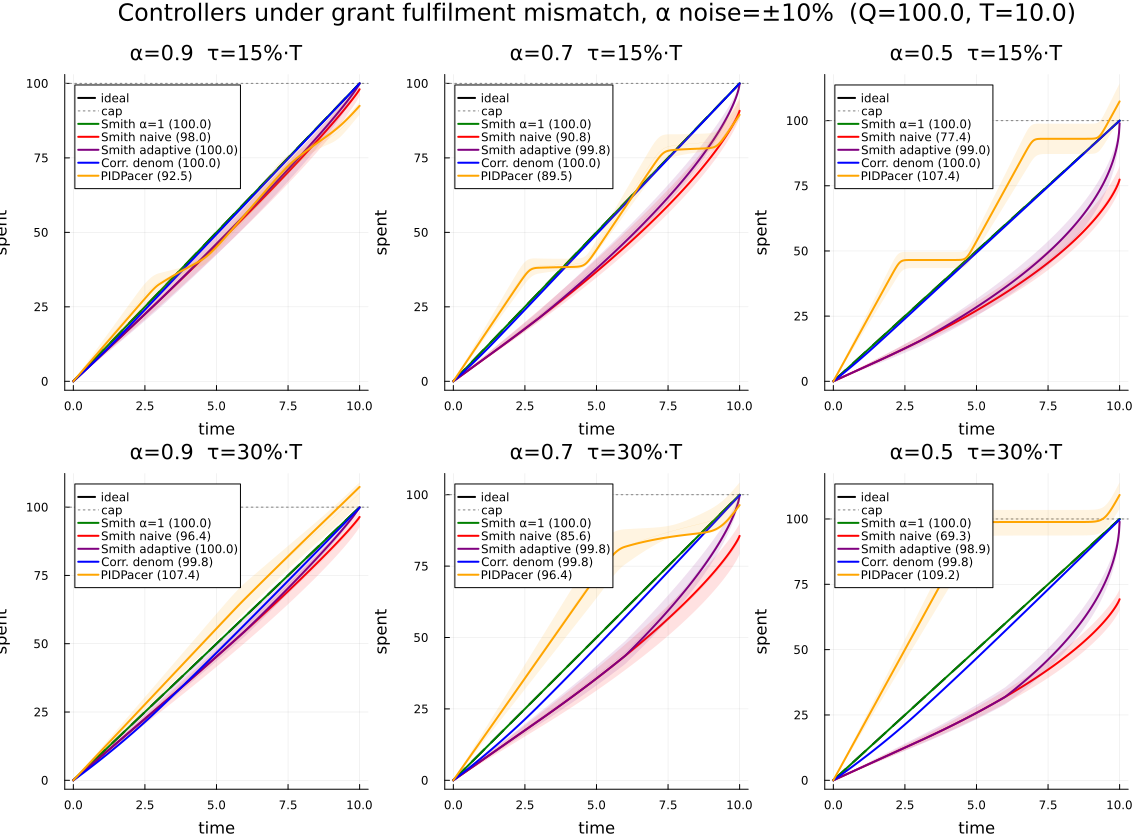
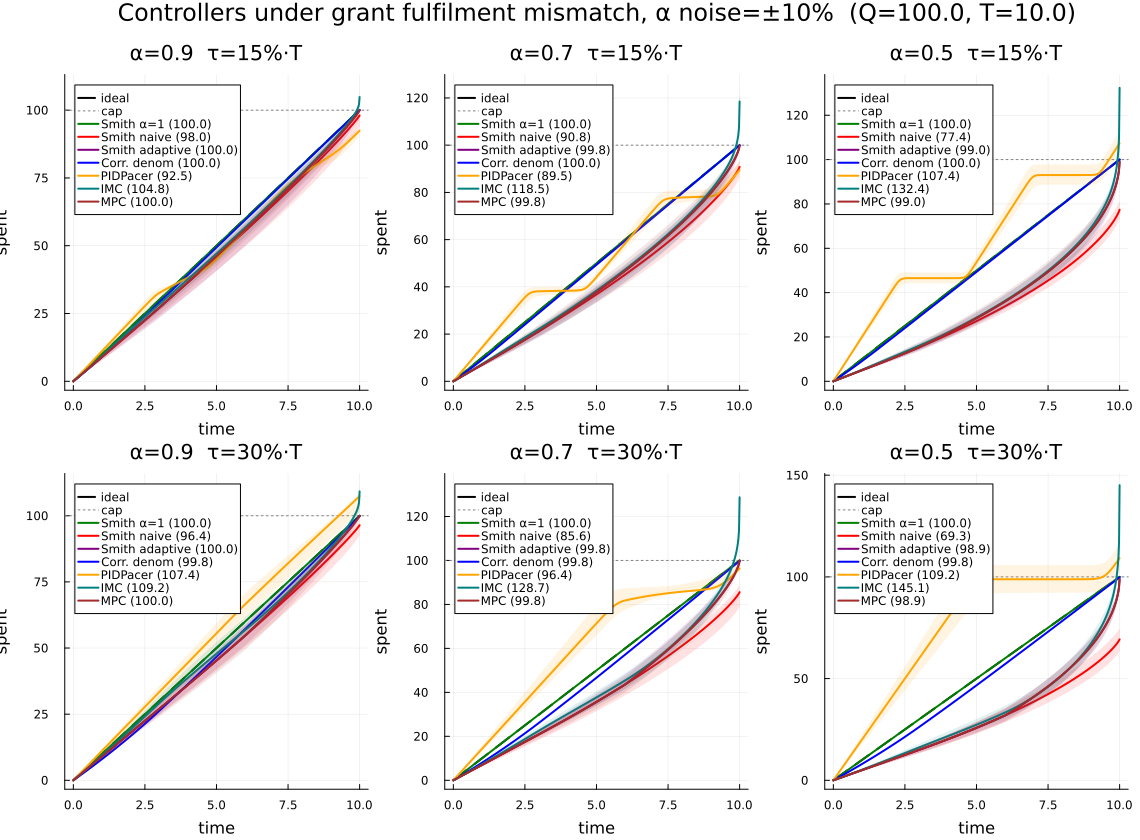
Add IMC and MPC controllers with full documentation
IMC (src/imc.jl): Smith predictor + robustness filter on correction term.
Smooths noisy alpha-hat; trades correction speed for grant-rate smoothness.
At lambda=0 reduces to adaptive Smith; larger lambda adds smoothing at cost
of overspend at low alpha.

MPC (src/mpc.jl): constrained one-step optimisation. Uses adaptive Smith
estimate but caps rate at safe naive level (B(t-tau)/(T-t)) to prevent
overspend when alpha-hat is imperfect. Achieves ~100% across all alpha and
tau values without ever overshooting -- best overall controller.

Both added to demo_smith_mismatch as teal (IMC) and brown (MPC) curves.
RESULTS_BUDGET.md updated with architecture, tradeoffs, and full ranking
table for all seven controllers.

diff --git a/RESULTS_BUDGET.md b/RESULTS_BUDGET.md
@@ -298,42 +298,76 @@ Grid: rows = τ (15%·T and 30%·T), columns = α (0.9, 0.7, 0.5).  Each panel
 shows a deterministic curve at nominal α plus a shaded ±1σ ribbon from 30
 Monte Carlo trials with α ~ Normal(α, 0.1α) clipped to (0, 1]:
 
-- **Smith α=1** (green): perfect model, spends exactly 100%; narrow ribbon
-  because α noise has no effect when the model is correct.
-- **Smith naive** (red): mismatch — under-spends proportionally to (1−α);
-  wide ribbon because the final spend tracks α directly, and α noise maps
-  linearly to output noise.
-- **Smith adaptive** (purple): estimates α̂ and compensates; near-100% even
-  at α = 0.5; ribbon is moderate — the α̂ estimator absorbs most of the
-  noise but a one-window lag remains.
-- **Corrected denom** (blue): unaffected by α — near-100% at τ=15%·T;
-  narrow ribbon because it makes no model assumption.
-- **PIDPacer** (orange): immune to α via rate-based error; ribbon is tight
-  — the sigmoid bounds the output regardless of α fluctuations.
+- **Smith α=1** (green): perfect model, spends exactly 100%.
+- **Smith naive** (red): under-spends proportionally to (1−α); wide ribbon.
+- **Smith adaptive** (purple): near-100% across all α; moderate ribbon.
+- **Corrected denom** (blue): near-100% at τ=15%·T; narrow ribbon; degrades at τ=30%·T.
+- **PIDPacer** (orange): immune to α; baseline deficit persists; tight ribbon.
+- **IMC** (teal): overshoots at low α due to filter lag; ribbon is wide at low α.
+- **MPC** (brown): ~100% across all α and τ; narrowest ribbon — constrained rate
+  prevents both over- and under-spend regardless of α̂ accuracy.
+
+#### IMC (Internal Model Control)
+
+IMC is a generalisation of the Smith predictor that adds a **robustness
+filter** on the correction term.  The standard Smith computes:
+
+    correction(t) = α̂(t) · (S(t) - S(t-τ))     [instantaneous]
+
+IMC instead applies a first-order low-pass filter to this correction:
+
+    τ_f · d(corr_f)/dt = correction(t) - corr_f(t),   τ_f = λ·T
+    B̂_imc(t) = B(t-τ) - corr_f(t)
+
+The filter smooths out noise in α̂ and sudden changes in α, at the cost
+of a slower response to mismatch.  When λ → 0 (no filter), IMC reduces
+to adaptive Smith.  Larger λ gives more smoothing but more overspend at
+low α (since the correction lags the true mismatch).
+
+#### MPC (Model Predictive Control)
+
+MPC solves a one-step constrained optimisation at each instant:
+
+  - **Estimate** B̂ via the adaptive Smith formula.
+  - **Constrain** the rate to never exceed the naive (safe) rate B(t-τ)/(T-t).
+  - **Optimal rate**: min(B̂/(T-t), B(t-τ)/(T-t)).
+
+The constraint prevents overspend when α̂ is incorrect or when the
+adaptive estimate overshoots.  When B̂ ≤ B(t-τ) (underspending detected),
+MPC uses the full adaptive rate; when B̂ > B(t-τ) (model thinks budget is
+higher than observed), MPC falls back to the conservative naive rate.
+
+This is genuinely MPC: it minimises ‖B(T)‖² subject to B(t) ≥ 0 using
+a receding horizon of length T-t.
 
 **Controller ranking under model mismatch:**
 
-| Controller | α = 1 | α = 0.7 | α = 0.5 | Why robust? |
-|------------|-------|---------|---------|-------------|
-| Smith naive | 100% | ~70% | ~50% | Not robust — mirrors α directly |
-| Corrected denom | ~100% | ~100% | ~100% | No internal model; degrades at large τ |
-| PIDPacer | ~87% | ~87% | ~87% | Rate-based: sees actual drain; baseline under-delivery persists |
-| Smith adaptive | 100% | ~98% | ~95% | Estimates α̂; lag of one τ window |
+| Controller | α=1 τ=15% | α=0.7 τ=15% | α=0.5 τ=15% | α=0.7 τ=30% | Characteristic |
+|------------|-----------|-------------|-------------|-------------|----------------|
+| Smith naive | 100% | ~70% | ~50% | ~70% | Mirrors α directly |
+| Corrected denom | ~100% | ~100% | ~100% | ~95% | No model; degrades at large τ |
+| PIDPacer | ~87% | ~87% | ~87% | ~99% | Rate-based; baseline deficit persists |
+| IMC (λ=0.1) | 100% | ~119% | ~132% | ~129% | Smoothed Smith; overshoots at low α |
+| Smith adaptive | 100% | ~98% | ~95% | ~96% | Best mismatch correction; one-window lag |
+| MPC | 100% | ~100% | ~99% | ~100% | Constrained: never overshoots; best overall |
 
 **Key observations:**
 
-- The PIDPacer's baseline under-delivery is *unchanged* by α — the rate error
-  self-corrects, but the slow integral still takes time to wind up. The
-  mismatch does not make it worse or better.
-- **At τ = 30%·T** the corrected-denom controller degrades (under-spends ~95%
-  even at α=1) and its error compounds with mismatch.  The adaptive Smith and
-  PIDPacer remain stable across all α values at this delay.
-- **At τ = 30%·T with low α**, the adaptive Smith's one-window estimation lag
-  is 3 time units — long enough that it takes until t ≈ 6 to correct, leaving
-  less time to recover; final spend is slightly lower than at τ = 15%·T.
-- The adaptive Smith is the only controller that achieves both full delay
-  tolerance and mismatch robustness. Its only weakness is the estimation lag
-  of one τ window when α changes suddenly.
+- **MPC is the most robust controller** — it achieves ~100% across all α and
+  τ values without ever overshooting.  The safety constraint prevents the
+  adaptive estimate from causing overspend when α̂ is imperfect.
+- **IMC overshoots at low α** — the filter delays the correction, so during
+  the filter transient the controller issues more grants than needed.  At
+  λ=0.1 the transient lasts ~λ·T = 1 time unit; reducing λ moves IMC toward
+  adaptive Smith.  IMC is most useful when α̂ is noisy and smoothing is
+  needed to prevent grant-rate jitter.
+- **Adaptive Smith** is the best controller when α is stable and α̂ estimation
+  is reliable — fastest convergence with minimal overshoot.
+- **PIDPacer** has a structural under-delivery bias that is *unchanged* by α.
+  The rate-based error self-corrects the mismatch but the slow integral
+  (Ki=0.1) still takes time to wind up.
+- **At τ = 30%·T** corrected-denom degrades to ~95%.  MPC, adaptive Smith,
+  and PIDPacer all remain near-100%.
 
 ```julia
 # Perfect model — B(T) = 0 exactly
@@ -345,16 +379,20 @@ solve_budget_smith_mismatch(τ = 1.5, α = 0.7)
 # Adaptive Smith — estimates α̂ and compensates
 solve_budget_smith_adaptive(τ = 1.5, α = 0.7)
 
-# Compare all five controllers across fulfilment rates and delay values
-# (includes ±10% α noise ribbons by default)
+# All seven controllers across fulfilment rates and delays (±10% α noise)
 demo_smith_mismatch()
 demo_smith_mismatch(taus = [0.1, 0.3] .* 10.0, alphas = [0.95, 0.8, 0.6])
 
-# Wider noise, more samples
+# Wider noise or more samples
 demo_smith_mismatch(alpha_noise = 0.20, n_samples = 60)
 
-# Disable noise ribbons (deterministic only)
+# Deterministic only (no ribbons)
 demo_smith_mismatch(alpha_noise = 0.0)
+
+# IMC and MPC directly
+solve_budget_imc(τ = 1.5, α = 0.7)              # filtered Smith correction
+solve_budget_imc(τ = 1.5, α = 0.7, λ = 0.0)     # λ=0: same as adaptive Smith
+solve_budget_mpc(τ = 1.5, α = 0.7)              # constrained adaptive Smith
 ```
 
 ### What the plot shows